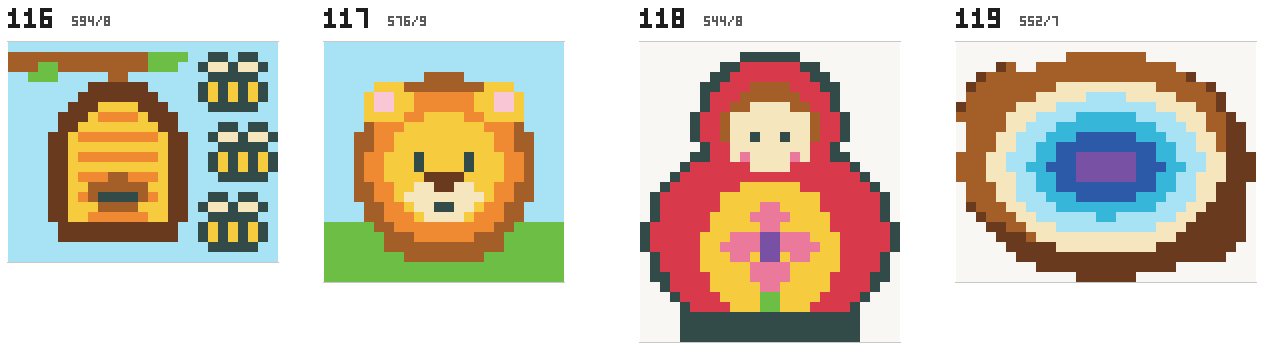
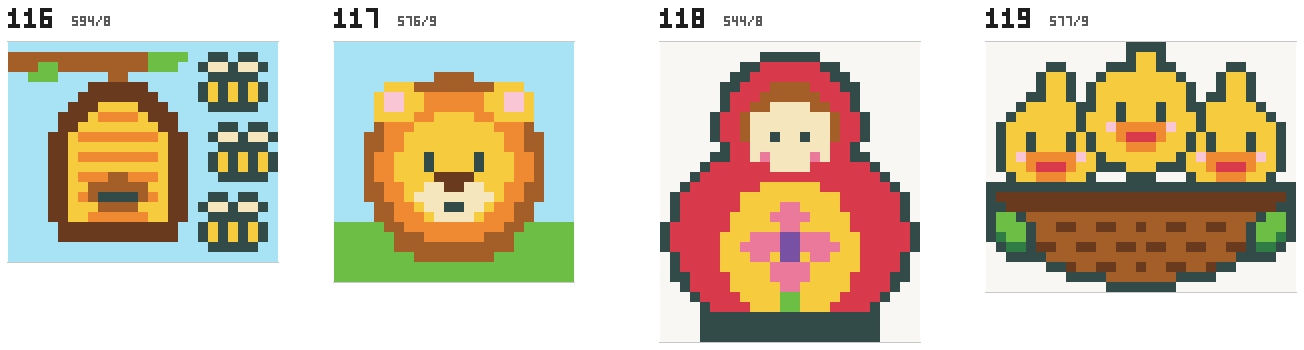
Sheet of drafts P0116-P0119 with the redrawn P0119
Claude-Session: https://claude.ai/code/session_015MFFqpKVAaPopMAf2NPWry

diff --git a/content/rounds/pictures/sheets/batch-0116.md b/content/rounds/pictures/sheets/batch-0116.md
@@ -7,4 +7,4 @@
 | 116 | Улей с пчёлами | batch-0116 | 27×22 | 594 | 8 | S 251 · E 90 · D 79 · Y 74 · A 42 · O 34 · G 12 · C 12 | 4 | draft |
 | 117 | Голова льва | batch-0116 | 24×24 | 576 | 9 | S 192 · G 98 · Y 96 · O 76 · A 74 · C 20 · K 8 · D 6 · E 6 | 6 | draft |
 | 118 | Матрёшка | batch-0116 | 26×30 | 544 | 8 | R 208 · D 122 · Y 102 · C 44 · P 38 · A 20 · V 6 · G 4 | 7 | draft |
-| 119 | Жеода | batch-0116 | 30×24 | 552 | 7 | A 119 · E 113 · C 106 · S 90 · B 60 · N 46 · V 18 | 9 | draft |
+| 119 | Гнездо с птенцами | batch-0119 | 31×25 | 577 | 9 | D 168 · Y 161 · A 99 · E 84 · O 30 · G 14 · R 9 · K 6 · M 6 | 9 | draft |
